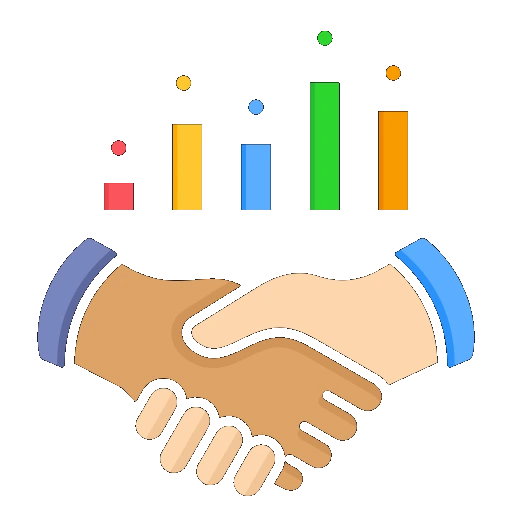
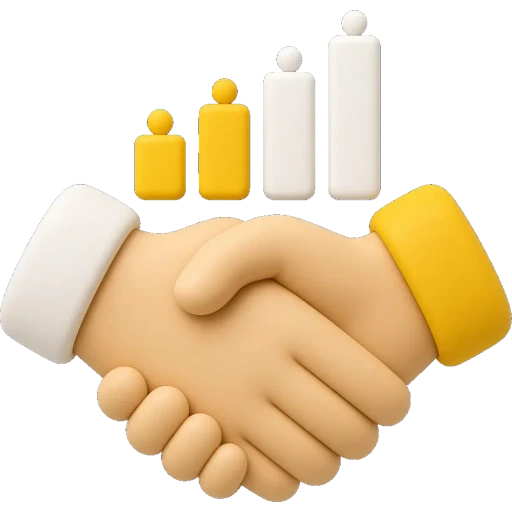
Owners tile: restore 3D handshake with partner growth bars

diff --git a/client/src/pages/MobileHome.jsx b/client/src/pages/MobileHome.jsx
@@ -56,7 +56,7 @@ export default function MobileHome() {
             <span className="mtile__card">
               {t.img === 'summary' && <SummaryChart className="mtile__chart" />}
               {t.img !== 'summary' && (
-                <img className="mtile__img" src={`/tiles/${t.img}.webp${t.img === 'owners' ? '?v=partners' : ''}`} alt="" loading="eager" decoding="async" />
+                <img className="mtile__img" src={`/tiles/${t.img}.webp${t.img === 'owners' ? '?v=partners3d' : ''}`} alt="" loading="eager" decoding="async" />
               )}
               {t.img === 'summary' && (
                 <span className="mtile__label">
